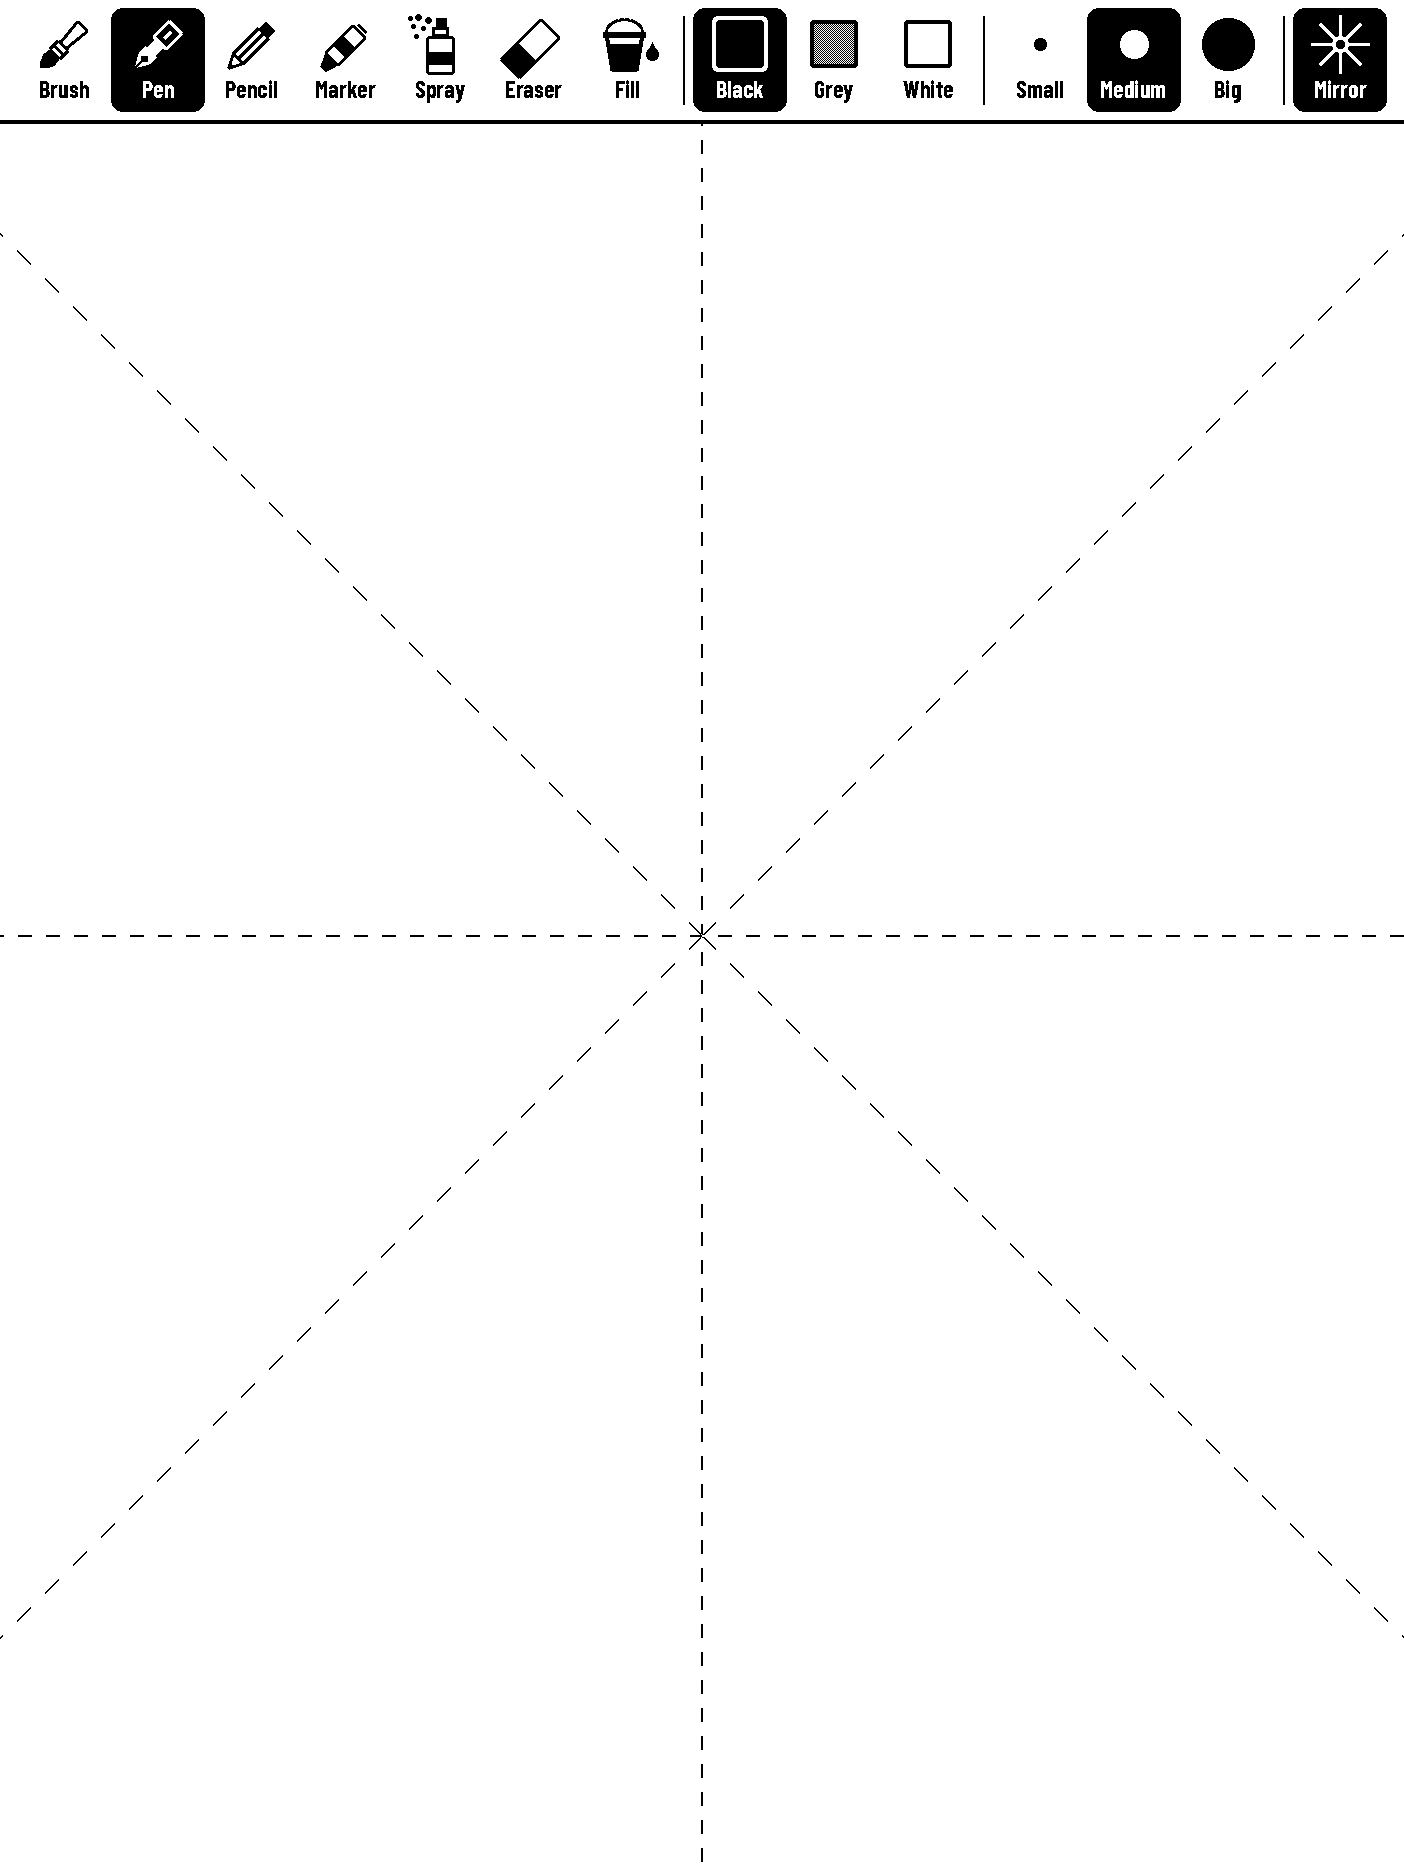
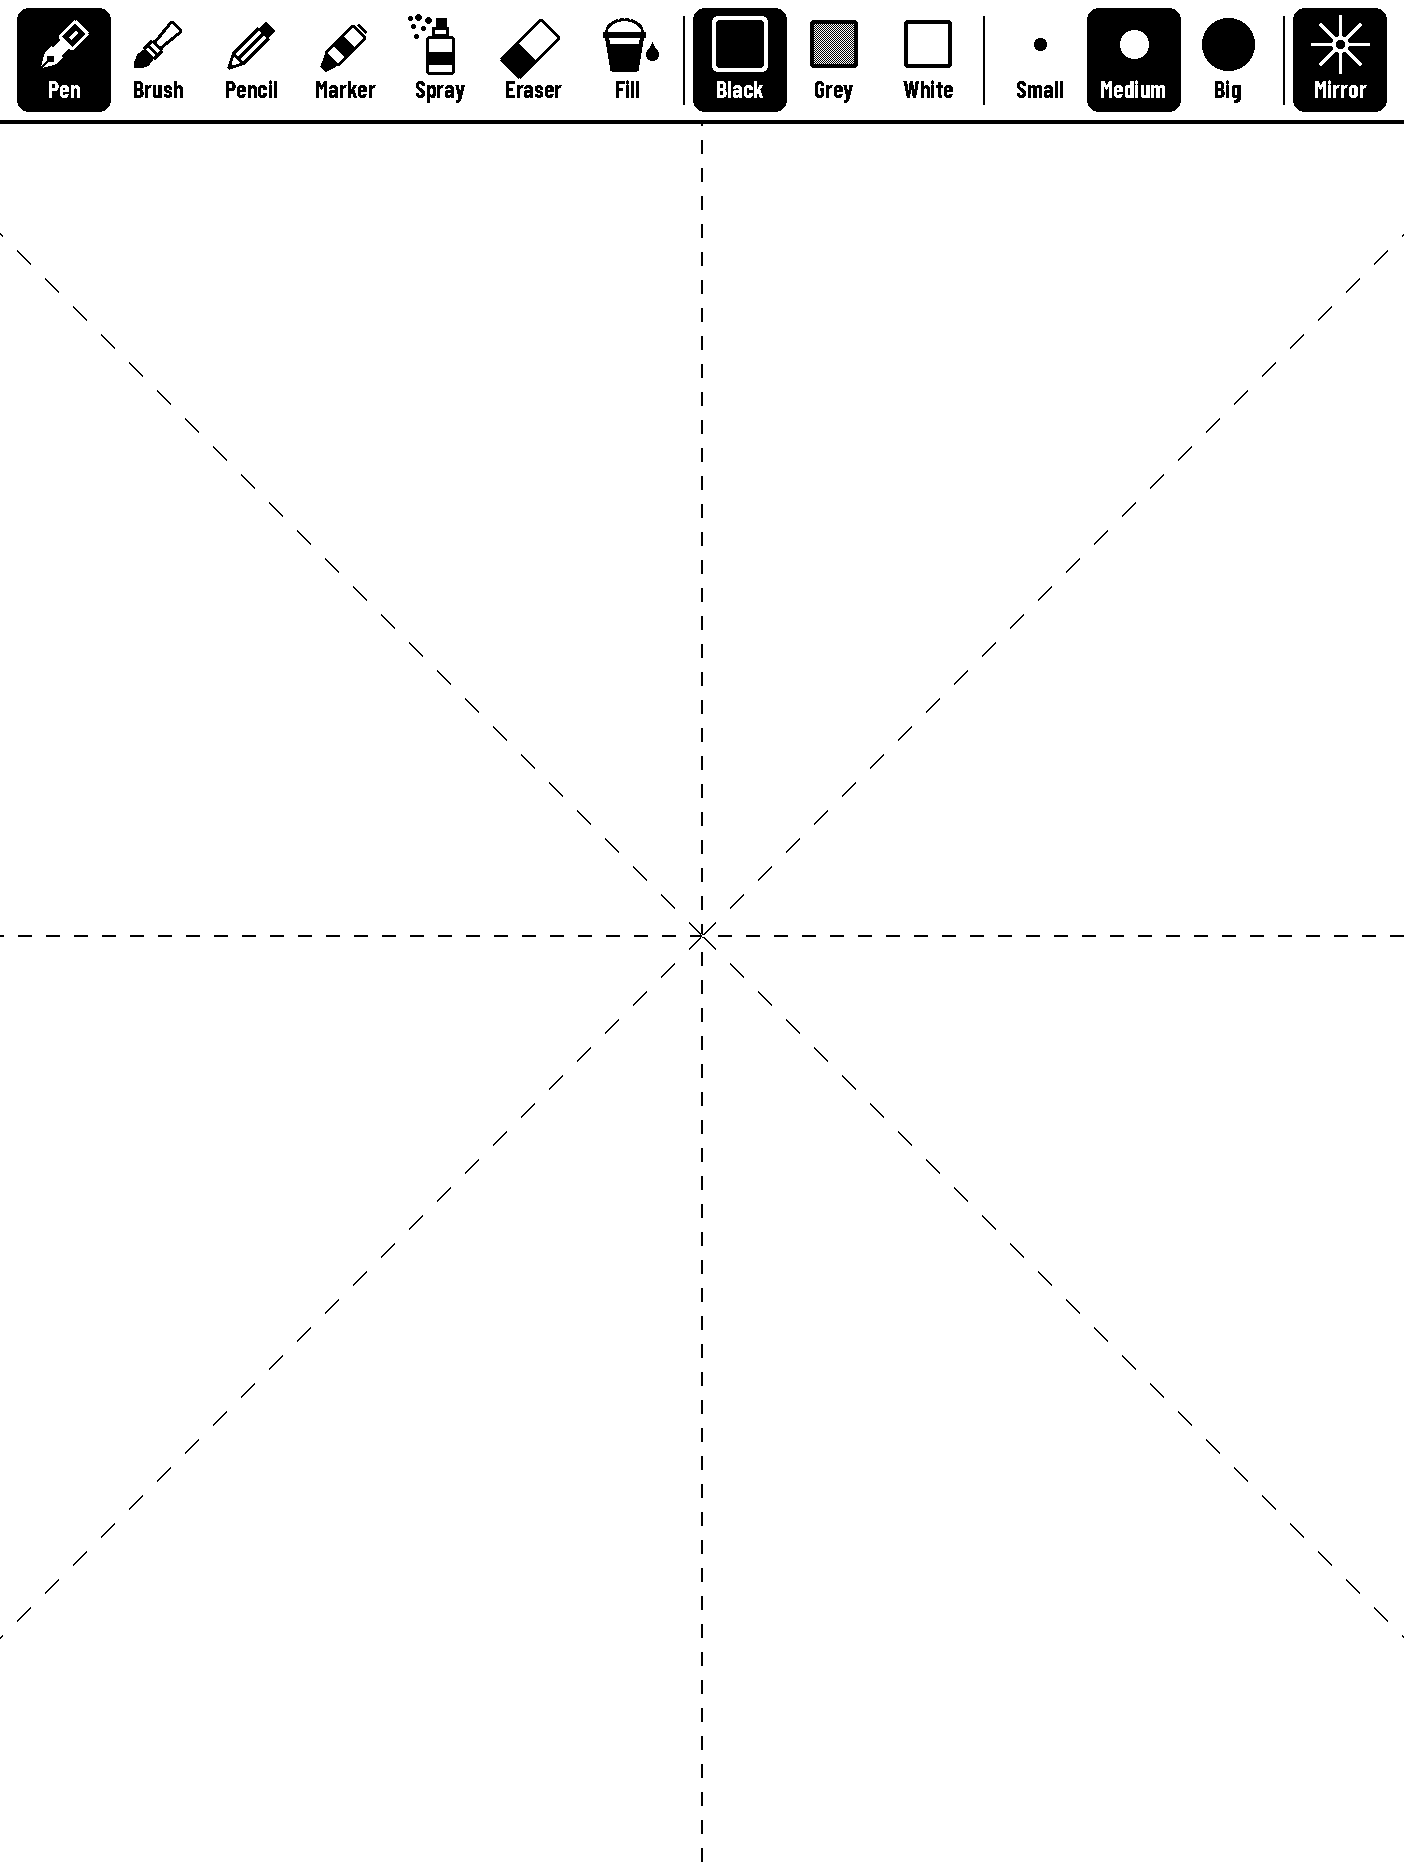
Pen first on the toolbar and the tool Sketch opens with
Owner 2026-11-03 changes the 2026-11-02 decision (Brush first): order is Pen, Brush, Pencil, Marker, Spray, Eraser, Fill.
Brush ids are never stored (pages are bitmaps, history is in memory), so replay is unaffected.
Tests that encoded Brush-first (test_oldpage, test_toolbar, test_paintbrush) are updated on purpose: the owner changed the decision.

Changed region(s): [[0.0, 0.0, 0.1531, 0.062]]

diff --git a/test/test_toolbar.c b/test/test_toolbar.c
@@ -48,7 +48,7 @@ static void scribble(rig_t *r) /* ink across the places the strip will cover and
 static void test_labels_follow_tools(void)
 {
     for (int b = 0; b < BR_N; b++) CHECK(!strcmp(tb_label(TI_BRUSH + b), brush_name(b))); /* the button that picks a tool carries its name */
-    CHECK(!strcmp(tb_label(TI_BRUSH), "Brush") && !strcmp(tb_label(TI_MIRROR), "Mirror"));
+    CHECK(!strcmp(tb_label(TI_BRUSH), "Pen") && !strcmp(tb_label(TI_BRUSH + 1), "Brush") && !strcmp(tb_label(TI_MIRROR), "Mirror"));
 }
 
 static void test_toggle_and_restore(void)
@@ -303,7 +303,7 @@ static void test_brushes_through_the_app(void)
             r.keep_tool = 1;
             rig_start(&r, APP_ORIENT_BAR_BOTTOM); /* the page file comes back as it was */
             CHECK(!memcmp(after, r.s.page.px, sizeof(after)));
-            CHECK(r.s.sty.brush == BR_BRUSH && r.s.sty.shade == sh); /* the colour is kept; the tool is the Brush again (owner 2026-11-02) */
+            CHECK(r.s.sty.brush == BR_PEN && r.s.sty.shade == sh); /* the colour is kept; the tool is the Pen again (owner 2026-11-03) */
             rig_end(&r);
         }
 }
@@ -435,7 +435,7 @@ static void test_each_button_picks(void)
         sk_set_size(&r.s, 2, r.now += 50);
         r.keep_tool = 1;
         rig_start(&r, o);
-        CHECK(r.s.sty.brush == BR_BRUSH && r.s.sty.shade == SH_GREY && r.s.size_cls == 2 && r.s.sty.size == brush_size(BR_BRUSH, 2)); /* colour and size kept, the Brush picked */
+        CHECK(r.s.sty.brush == BR_PEN && r.s.sty.shade == SH_GREY && r.s.size_cls == 2 && r.s.sty.size == brush_size(BR_PEN, 2)); /* colour and size kept, the Pen picked */
         /* a size button gives each tool its own measure: Small < Medium < Big */
         for (int b = 0; b < BR_N; b++) CHECK(brush_size(b, 0) < brush_size(b, 1) && brush_size(b, 1) < brush_size(b, 2) && brush_size_cls(b, brush_size(b, 1)) == 1);
         /* the strip shows exactly one tool, one colour and one size picked (inverted cells differ from the plain cell) */

diff --git a/src/brush.c b/src/brush.c
@@ -6,7 +6,7 @@
 #include "penmap.h"
 #include "sk_cfg.h"
 
-static const char *const names[BR_N] = { "Brush", "Pen", "Pencil", "Marker", "Spray", "Eraser", "Fill" };
+static const char *const names[BR_N] = { "Pen", "Brush", "Pencil", "Marker", "Spray", "Eraser", "Fill" };
 
 const char *brush_name(int b) { return names[b < 0 || b >= BR_N ? 0 : b]; }
 const char *shade_name(int sh) { return sh == SH_BLACK ? "Black" : sh == SH_WHITE ? "White" : "Grey"; }
@@ -16,7 +16,7 @@ int brush_is_fill(int b) { return b == BR_FILL; }
 int brush_tail(int b) { return b == BR_PEN; }
 
 /* Small, Medium, Big per brush (pen size = the diameter in px; the eraser's is its side). Fill has no size: it shares the pen's row so the buttons keep their pick */
-static const uint8_t sizes[BR_N][BR_SIZES] = { { 12, 22, 40 }, { 5, 9, 17 }, { 5, 9, 17 }, { 6, 10, 18 }, { 8, 14, 26 }, { 14, 27, 44 }, { 5, 9, 17 } };
+static const uint8_t sizes[BR_N][BR_SIZES] = { { 5, 9, 17 }, { 12, 22, 40 }, { 5, 9, 17 }, { 6, 10, 18 }, { 8, 14, 26 }, { 14, 27, 44 }, { 5, 9, 17 } };
 int brush_size(int b, int cls) { return sizes[b < 0 || b >= BR_N ? 0 : b][cls < 0 ? 0 : cls >= BR_SIZES ? BR_SIZES - 1 : cls]; }
 int brush_size_cls(int b, int size)
 {
@@ -228,7 +228,7 @@ static void stamp_spray(const bctx_t *k, int x, int y, int p) /* dots about the 
 
 static void stamp_none(const bctx_t *k, int x, int y, int p) { (void)k, (void)x, (void)y, (void)p; } /* the bucket draws no stroke */
 
-static const stamp_fn stamps[BR_N] = { stamp_brush, stamp_pen, stamp_pencil, stamp_square, stamp_spray, stamp_square, stamp_none };
+static const stamp_fn stamps[BR_N] = { stamp_pen, stamp_brush, stamp_pencil, stamp_square, stamp_spray, stamp_square, stamp_none };
 
 static void seg_img(const bstyle_t *st, int img, int colour, canvas_t *c, int x0, int y0, int p0, int t0, int x1, int y1, int p1, int t1, box_t *dirty);
 

diff --git a/test/util.h b/test/util.h
@@ -41,7 +41,7 @@ typedef struct {
     int started;
     struct { char k[16], v[16]; } cfg[24]; /* the settings the app stored (cfg_set); a test may pre-set any key with rig_cfg */
     int keep_smooth;    /* a test that wants the app's own stabiliser level (SK_SMOOTH_DEF) sets this before rig_start */
-    int keep_tool;      /* a test that wants the tool the app opens with (the Brush) sets this before rig_start */
+    int keep_tool;      /* a test that wants the tool the app opens with (the Pen) sets this before rig_start */
     int log_n, log_ev_med, log_ev_p95, log_push_med, log_push_p95, log_samples; /* the latency lines sketch handed to its log */
     int inverted;       /* inverted halves seen (rig_flush) */
     int bare_fulls;     /* full refreshes handed out without their inverted half first: the flash helper was bypassed */
@@ -126,7 +126,7 @@ static inline void rig_start(rig_t *r, int orient)
     sk_env_t env = { &r->fs.fs, r, rig_get, rig_set, { PJ_PWG, fake_post, &r->pr }, rig_log, rig_printer };
     if (sk_init(&r->s, &env, r->fb, TW, TH, TS, orient, &bar)) abort();
     if (!r->keep_smooth) r->s.smooth = 0; /* the stabiliser is off in the tests (the app's is SK_SMOOTH_DEF): the points are exactly the pen's */
-    if (!r->keep_tool) r->s.sty.brush = r->s.last_ink = BR_PEN, r->s.sty.size = (uint8_t)brush_size(BR_PEN, r->s.size_cls); /* the tests draw with the solid Pen (the app opens with the Brush: test_oldpage) */
+    if (!r->keep_tool) r->s.sty.brush = r->s.last_ink = BR_PEN, r->s.sty.size = (uint8_t)brush_size(BR_PEN, r->s.size_cls); /* the tests draw with the solid Pen (the app opens with the Pen too; test_oldpage) */
     sk_set_tablet(&r->s, UM_W, UM_H, 1);
     r->started = 1;
 }

diff --git a/test/test_oldpage.c b/test/test_oldpage.c
@@ -37,7 +37,7 @@ static void test_old_settings(void)
         CHECK(!memcmp(saved, r.s.page.px, sizeof(saved))); /* the page is as it was */
         CHECK(r.s.sty.brush < BR_N && r.s.sty.brush != BR_ERASER && tb_item_of_shade(r.s.sty.shade) >= 0 && r.s.size_cls >= 0 && r.s.size_cls < BR_SIZES);
         CHECK(r.s.sty.size == brush_size(r.s.sty.brush, r.s.size_cls));
-        CHECK(r.s.sty.brush == BR_BRUSH); /* owner 2026-11-02: Sketch opens with the Brush, whatever tool was saved */
+        CHECK(r.s.sty.brush == BR_PEN); /* owner 2026-11-03: Sketch opens with the Pen, whatever tool was saved */
         CHECK(r.s.sty.shade == SH_GREY); /* the old tone 5 */
         /* the toolbar draws and works with it, and a new stroke inks */
         sk_toolbar(&r.s, r.now);

diff --git a/src/brush.h b/src/brush.h
@@ -7,8 +7,8 @@
 #include <stdint.h>
 #include "canvas.h"
 
-/* The order is the toolbar's order and the cycle order */
-enum { BR_BRUSH, BR_PEN, BR_PENCIL, BR_MARKER, BR_SPRAY, BR_ERASER, BR_FILL, BR_N };
+/* The order is the toolbar's order and the cycle order: the Pen first (owner 2026-11-03; 2026-11-02 had the Brush first). Ids are never stored (pages are bitmaps), so the order may change */
+enum { BR_PEN, BR_BRUSH, BR_PENCIL, BR_MARKER, BR_SPRAY, BR_ERASER, BR_FILL, BR_N };
 /* The three size buttons (Small, Medium, Big): brush_size gives the pen size (1..48) of a button for a brush; brush_size_cls the button a size belongs to, or -1 */
 #define BR_SIZES 3
 int brush_size(int brush, int cls);

diff --git a/src/sketch.c b/src/sketch.c
@@ -718,7 +718,7 @@ int sk_init(sketch_t *s, const sk_env_t *env, uint8_t *fb, int w, int h, int str
     s->size_cls = cfg_int(s, "size_cls", 1);
     if (s->size_cls >= BR_SIZES) s->size_cls = 1;
     s->sty.shade = (uint8_t)colour_cfg(s);
-    s->sty.brush = BR_BRUSH; /* owner 2026-11-02: Sketch always opens with the best tool, the Brush */
+    s->sty.brush = BR_PEN; /* owner 2026-11-03: Sketch always opens with the Pen, first on the toolbar (2026-11-02 chose the Brush) */
     s->sty.size = (uint8_t)brush_size(s->sty.brush, s->size_cls);
     s->last_ink = s->sty.brush;
     box_clear(&s->flash);

diff --git a/test/test_paintbrush.c b/test/test_paintbrush.c
@@ -31,7 +31,7 @@ static void test_toolbar_pick(void)
     rig_t r;
     rig_new(&r, APP_ORIENT_BAR_BOTTOM);
     sk_toolbar(&r.s, r.now);
-    CHECK(TI_BRUSH + BR_BRUSH == 0 && !strcmp(brush_name(BR_BRUSH), "Brush"));
+    CHECK(TI_BRUSH + BR_PEN == 0 && BR_BRUSH == 1 && !strcmp(brush_name(BR_BRUSH), "Brush")); /* the Pen is first on the toolbar (owner 2026-11-03), the Brush second */
     int x = r.s.tb.cx[TI_BRUSH + BR_BRUSH] + 20, y = r.s.tb.cy + 20;
     rig_pen_user(&r, x, y, APP_PEN_IN_RANGE, 0);
     rig_pen_user(&r, x, y, APP_PEN_TIP | APP_PEN_IN_RANGE, 30000);

diff --git a/README.md b/README.md
@@ -25,7 +25,7 @@ Drawing a cat on the tablet, live on the X (twice as fast here; [the full video]
 | <img src="shots/m5-mirror-picker-landscape.png" width="420"><br>The mirror picker: pick how your strokes are repeated | <img src="shots/m1-mirror-kaleidoscope.png" width="420"><br>A kaleidoscope drawing |
 | <img src="shots/m-pagemenu-landscape.png" width="420"><br>The page menu | <img src="shots/p2-paper-grid.png" width="420"><br>Paper styles: grid (also lines, dots, blank) |
 | <img src="shots/s1-settings-landscape.png" width="420"><br>Settings: tap < or > on a row | |
-| <img src="shots/b1-brushes-black.png" width="420"><br>The brushes: brush, pen, pencil, marker, spray, eraser | <img src="shots/f-print-confirm.png" width="420"><br>Print confirm screen |
+| <img src="shots/b1-brushes-black.png" width="420"><br>The brushes: pen, brush, pencil, marker, spray, eraser | <img src="shots/f-print-confirm.png" width="420"><br>Print confirm screen |
 
 ## Requirements
 
